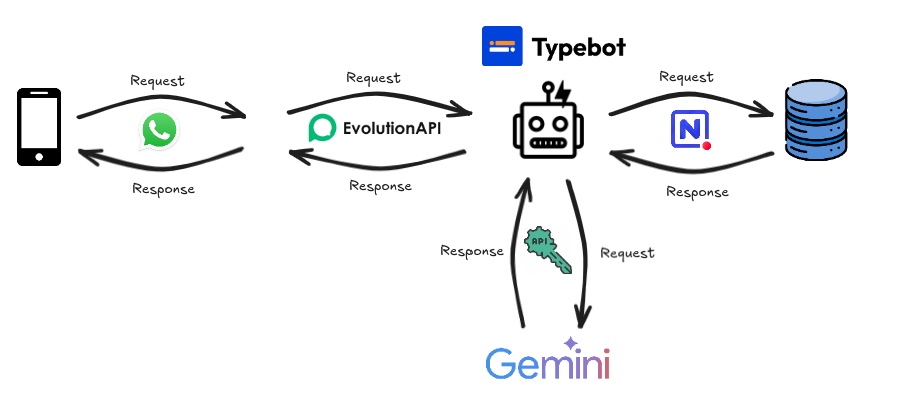
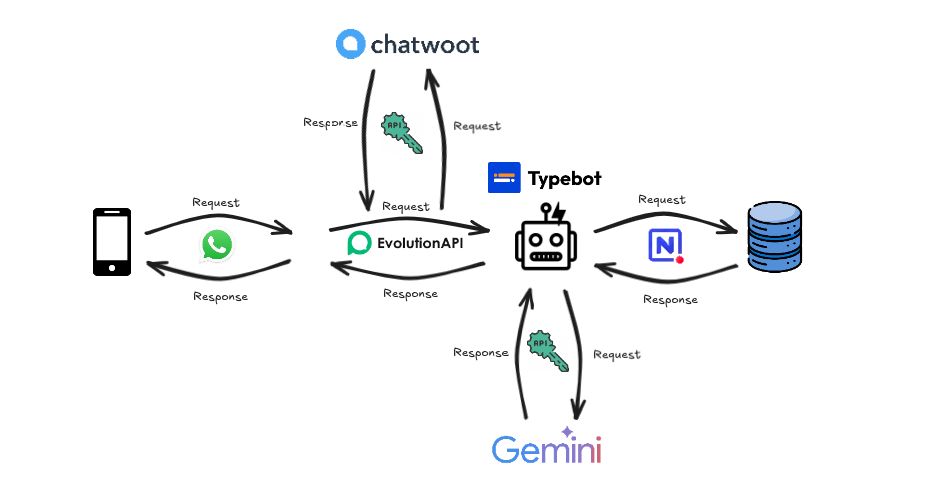
add chatwoot

Changed region(s): [[0.3094, 0.1467, 0.9591, 0.9389], [0.0, 0.176, 0.3094, 0.6161], [0.3403, 0.0587, 0.7116, 0.176]]

diff --git a/README.md b/README.md
@@ -8,6 +8,7 @@
 ![GEMINI](https://img.shields.io/badge/%20GOOGLE%20GEMINI-gray?style=for-the-badge&logo=Googlegemini&logoColor=blue)
 ![TYPEBOT](https://img.shields.io/badge/TYPEBOT-blue?style=for-the-badge&logo=probot&logoColor=white)
 ![NOCODB](https://img.shields.io/badge/NOCODB-purple?style=for-the-badge&logo=amazondynamodb&logoColor=white&logoSize=20px)
+![chatwoot](https://img.shields.io/badge/CHATWOOT-white?style=for-the-badge&logo=chatwoot)
 ![EVOLUTION API](https://img.shields.io/badge/EVOLUTION%20API-greenlight?style=for-the-badge&logo=whatsapp&logoColor=white)
 ![Docker](https://img.shields.io/badge/docker-%230db7ed.svg?style=for-the-badge&logo=docker&logoColor=white)
 
@@ -37,20 +38,25 @@
 
 ## Descrição
 
-Chatbot para Atendimento de uma clinica,para obter informações de forma rápida e precisa
+Chatbot para Atendimento de uma Clinica "Clinimagem",para obter informações de forma rápida e precisa
 
 ## Requisitos
 
-- [ ] Informações sobre Convênios
-- [ ] Informações sobre Exames
-- [ ] Informações sobre Consultas
-- [ ] Exames de Imagem
-- [ ] Exames Laboratoriais
-- [ ] Exames do DETRAN
-- [ ] Exames de Medicina do Trabalho
-- [ ] Retornar ao Menu Principal
-- [ ] Resultados de Exames
+- [x] Cadastro do Usuario ao bot
+- [x] Regras LGBD para Cadastro
+- [x] Informações sobre Convênios
+- [x] Informações sobre o Preparativo para Exames
+- [x] Disponização do link para consulta dos exames do paciente
+- [x] Informações sobre Consultas
+- [x] Exames de Imagem
+- [x] Exames Laboratoriais
+- [x] Exames do DETRAN
+- [x] Exames de Medicina do Trabalho
+- [x] Retornar ao Menu Principal
+- [x] Resultados de Exames
+- [ ] Tranferencia para o atendimento ao cliente
 - [ ] Encerrar atendimento
+- [ ] Função de Avaliação do chatbot
 
 
 ## Tecnologias
@@ -58,6 +64,7 @@ Chatbot para Atendimento de uma clinica,para obter informações de forma rápid
 - **Typebot**: Plataforma para criar chatbots interativos, sem programação complexa.
 - **NocoDB**: Banco de dados visual que transforma dados em planilhas.
 - **Evolution API**: Automação para envio de mensagens via WhatsApp.
+- **Chatwoot**: Plataforma para gerenciar canais de atendimento ao cliente
 - **WhatsApp**: Plataforma para troca de mensagens e comunicação instantânea.
 - **Gemini**: IA para geração de conversas em linguagem natural da Google.
 - **Docker**: Virtualização de aplicações em contêineres para qualquer ambiente.
@@ -75,8 +82,10 @@ Chatbot para Atendimento de uma clinica,para obter informações de forma rápid
 
 ## Dificuldades
 
+Tivermos dificuldades na hora de integrar o sistema chatwoot com o evolution api, mas com muito esforço obtivemos sucesso na integração.
 
 ## Resultados
+
 
 
 ## Como_Usar
